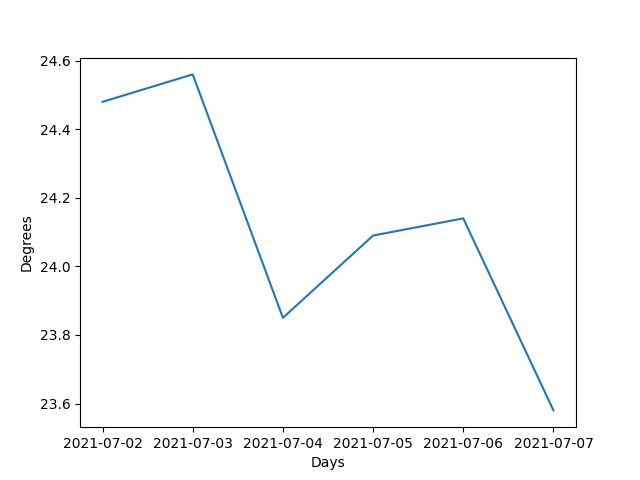
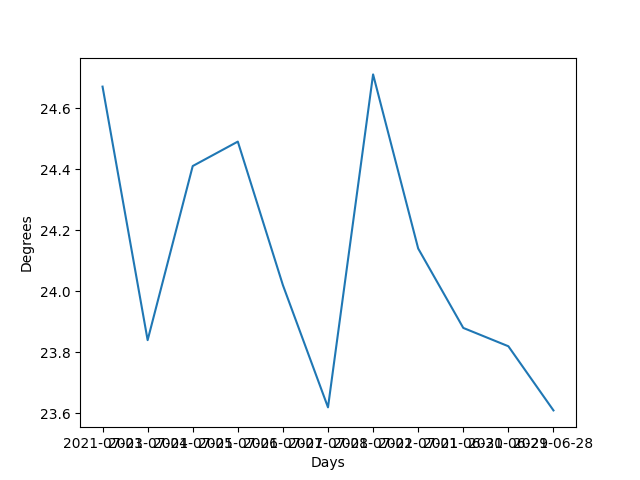
Updated files

diff --git a/weather.py b/weather.py
@@ -7,7 +7,7 @@ from pathlib import Path
 
 import matplotlib.pyplot as plt
 import pandas as pd
-from data_processing import geolocations
+
 
 def get_current_and_next_seven_days_weather_data(latitude: str, longitude: str) -> dict:
     """
@@ -134,40 +134,35 @@ def transform_dict_into_dataframe(df: pd.DataFrame):
 
     return pd.DataFrame(info_temp).T
 
-days_with_temp = transform_dict_into_dataframe(geolocations)
-
 def generate_plots(df: pd.DataFrame, output_dir: str) -> None:
     """
     Generates plots of min and max temperature range for each city and saves them into directory.
     """
+    days = df.columns.values
     for index, row in df.iterrows():
-        city_name = row["City"]
+        city_name = index
 
         path_to_plot = Path(f"{output_dir}/{city_name}/")
         path_to_plot.mkdir(parents=True, exist_ok=True)
 
-        future_days = get_max_and_min_temp_for_today_and_next_5_days(
-            row["Latitude"], row["Longitude"]
-        )
-        values = future_days.values()
-
         minimum_temp = []
-        for i in values:
+        for i in row:
             minimum_temp.append(i["minimum"])
         plt.figure()
-        plt.plot(future_days.keys(), minimum_temp)
+        plt.plot(days, minimum_temp)
         plt.xlabel("Days")
         plt.ylabel("Degrees")
         plt.savefig(path_to_plot / f"{city_name}_min_temperature.png")
         print(f"{path_to_plot}/{city_name}_min_temperature.png file created.")
 
         maximum_temp = []
-        for i in values:
+        for i in row:
             maximum_temp.append(i["maximum"])
         plt.figure()
-        plt.plot(future_days.keys(), maximum_temp)
+        plt.plot(days, maximum_temp)
         plt.xlabel("Days")
         plt.ylabel("Degrees")
         plt.savefig(path_to_plot / f"{city_name}_max_temperature.png")
         print(f"{path_to_plot}/{city_name}_max_temperature.png file created.")
+
 

diff --git a/from_console.py b/from_console.py
@@ -1,0 +1,10 @@
+import argparse
+from initialization import initialize_program
+
+parser = argparse.ArgumentParser(description='Weather_analyzer')
+parser.add_argument('data', type=str, help='Input dir')
+parser.add_argument('output_dir', type=str, help='Output')
+args = parser.parse_args()
+
+if __name__ == '__main__':
+    initialize_program(args.data, args.output_dir)

diff --git a/initialization.py b/initialization.py
@@ -17,4 +17,4 @@ def initialize_program(data: str, output_dir: str):
     geolocations = coordinates_of_city_center(df_with_top_cities)
     days_with_temp = transform_dict_into_dataframe(geolocations)
 
-    generate_plots(geolocations, output_dir)
+    generate_plots(days_with_temp, output_dir)

diff --git a/data_processing.py b/data_processing.py
@@ -52,4 +52,3 @@ def coordinates_of_city_center(df: pd.DataFrame) -> pd.DataFrame:
     central_lon = (lon_max + lon_min) / 2
     return pd.concat([central_lat, central_lon], axis=1).reset_index()
 
-geolocations = coordinates_of_city_center(df_with_top_cities)

diff --git a/postprocessing.py b/postprocessing.py
@@ -1,5 +1,3 @@
-from weather import days_with_temp
-
 def city_and_day_with_max_temp(df):
     maximum_temp = float("-inf")
     for i in df.values:
